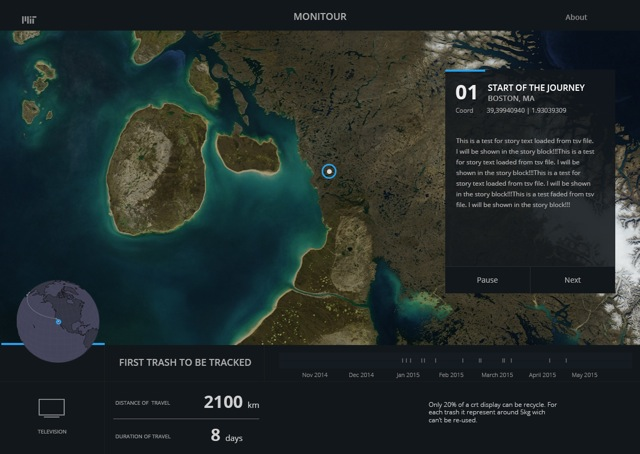
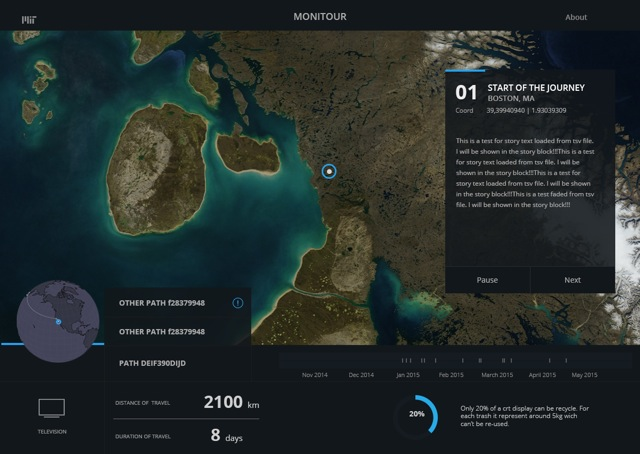
..

Changed region(s): [[0.625, 0.8634, 0.9062, 0.9559], [0.1875, 0.6476, 0.4062, 0.8326], [0.1875, 0.6167, 0.3125, 0.7401]]

diff --git a/public/css/mystyle.css b/public/css/mystyle.css
@@ -25,7 +25,7 @@
 
 html,body {
   font-family: 'Open Sans',sans-serif ;
-  background: black;
+  background: rgb(18,23,22);
   width: 100%;
   height: 100%;
   overflow: hidden;
@@ -65,7 +65,7 @@ a:active {text-decoration: none}
   width:700px;
   position: relative;
   margin: 0 auto;
-  background-color: rgba(20,20,20,0.9);
+  background-color: rgba(18,23,22,0.9);
   padding: 10px;
   top: 50%;
   transform: translateY(-50%);
@@ -105,6 +105,7 @@ a:active {text-decoration: none}
     z-index: 15;
     width: 100%;
     height: 100%;
+    top: 0px;
 
 
 }
@@ -114,12 +115,12 @@ a:active {text-decoration: none}
   color:white;
   width:500px;
   height:600px;
-  position: relative;
-  margin: 0 auto;
-  background-color: rgba(20,20,20,0.9);
+  position: absolute;
+  background-color: rgba(18,23,22,0.9);
   padding: 20px;
   top: 50%;
-  transform: translateY(-50%);
+  left: 50%;
+  transform: translate(-50%,-50%);
 }
 
 #abouttb>div {
@@ -191,7 +192,7 @@ a:active {text-decoration: none}
   position: absolute;
   width: 130px;
   height: 530px;
-  background-color: rgba(30,30,30,0.9);
+  background-color: rgba(18,23,22,0.9);
   color:none;
   left: 300px;
   bottom:252px;
@@ -200,7 +201,7 @@ a:active {text-decoration: none}
 #nowpath_title {
   color:rgb(80,80,80);
   position: absolute;
-  left:270px;
+  left:300px;
   top:27px;
   width: 175px;
   cursor: pointer;
@@ -213,16 +214,16 @@ a:active {text-decoration: none}
 }
 
 #nowpath_title p{
-  font-size: 34px;
-  margin-top: -10px;
+  font-size: 24px;
+  margin-top: -4px;
 }
 
 #device_icon {
   color:rgb(80,80,80);
   position: absolute;
-  left:40px;
+  left:90px;
   width: 175px;
-  top:85px;
+  top:105px;
 }
 
 #device_icon img{
@@ -241,9 +242,9 @@ a:active {text-decoration: none}
 #distance {
   color:rgb(80,80,80);
   position: absolute;
-  left:280px;
+  left:310px;
   width: 270px;
-  top:100px;
+  top:120px;
   border-bottom-style: solid;
   border-bottom-color: rgb(50,50,50);
   border-bottom-width:1px;
@@ -258,9 +259,9 @@ a:active {text-decoration: none}
 #days {
   color:rgb(80,80,80);
   position: absolute;
-  left:280px;
-  top:166px;
-  width: 300px;
+  left:310px;
+  top:186px;
+  width: 270px;
 }
 
 #days p {
@@ -306,7 +307,7 @@ a:active {text-decoration: none}
 #control {
   display: none;
   position:relative;
-  background-color: rgba(20,20,20,0.9);
+  background-color: rgba(18,23,22,0.9);
   width:350px;
   left: calc(100% - 400px);
   top:120px;
@@ -356,7 +357,7 @@ a:active {text-decoration: none}
 }
 
 #preview {
-  background-color: rgba(30,30,30,0.9);
+  background-color: rgba(18,23,22,0.9);
   position: absolute;
   left: 0px;
   width:100%;
@@ -496,7 +497,7 @@ a:active {text-decoration: none}
 }
 #tablepath div {
   height:22px;
-  background-color: rgba(20,20,20,0.9);
+  background-color: rgba(18,23,22,0.9);
   color:#a1a1a1;
 }
 
@@ -562,7 +563,7 @@ p {
 
 #next {
   position: absolute;
-  background-color: rgba(20,20,20,0.8);
+  background-color: rgba(18,23,22,0.8);
   width:50%;
   left: 50%;
   bottom: 0px;
@@ -578,7 +579,7 @@ p {
 
 #stop {
   position: absolute;
-  background-color: rgba(20,20,20,0.8);
+  background-color: rgba(18,23,22,0.8);
   width:50%;
   left: 0%;
   bottom: 0px;
@@ -770,18 +771,6 @@ p {
   cursor: pointer;
 }
 
-.timeid:hover {
-  fill: rgba(206, 18, 18, 0.8);
-  r:3;
-  cursor: pointer;
-}
-
-.mypoints circle:hover {
-  fill: rgba(206, 18, 18, 0.8);
-  r:3;
-  cursor: pointer;
-}
-
 .timemark {
   y:15;
   x:-1.5;
@@ -852,7 +841,7 @@ p {
 .menucontent {
   position:absolute;
   display: none;
-  background-color: rgba(20,20,20,0.9);
+  background-color: rgba(18,23,22,0.9);
   width:200px;
   height:80px;
   top:60px;
@@ -912,7 +901,7 @@ cursor: pointer;
   bottom: -150px;
   //bottom: 0px;
   //z-index: 20;
-  background-color: rgb(20,20,20);
+  background-color: rgb(18,23,22);
   transition: all 0.3s ease-in-out;
   -webkit-transition: all 0.3s ease-in-out;
   -moz-transition: all 0.3s ease-in-out;
@@ -924,9 +913,29 @@ cursor: pointer;
   width:280px;
   height:4.5px;
   background-color: #39a4e8;
-
-
 }
+
+.underbar_line {
+  position: absolute;
+  left: 0px;
+  top: 0px;
+  width:100%;
+  height:100px;
+  background-color: none;
+  border-bottom: 1px rgb(50,50,50) solid;
+}
+
+.underbar_line2 {
+  position: absolute;
+  left: 0px;
+  top: 0px;
+  width:280px;
+  height:100%;
+  background-color: none;
+  border-right: 1px rgb(50,50,50) solid;
+}
+
+
 
 .underbar_back{
   position: absolute;
@@ -968,7 +977,7 @@ cursor: pointer;
     position: absolute;
     width: 100%;
     height: 60px;
-    background-color: rgb(20,20,20);
+    background-color: rgb(18,23,22);
     z-index: 20;
 
 
@@ -987,7 +996,7 @@ cursor: pointer;
   height: 100%;
   left: 0px;
   top: 0px;
-  background-color: rgba(0,0,0,0.5);
+  background-color: rgba(18,23,22,0.5);
   z-index: 1;
 }
 
@@ -1086,4 +1095,8 @@ cursor: pointer;
     padding: 0px !important;
     margin-top: 3px !important;
     margin-bottom: 3px !important;
+  }
+
+  .right {
+    float: right !important;
   }

diff --git a/views/viz.html b/views/viz.html
@@ -26,7 +26,11 @@
     <svg class = "svgpage"></svg>
 
     <div class = "underbar">
+
       <div class="underbar_mark"></div>
+      <div class="underbar_line"></div>
+      <div class="underbar_line2"></div>
+
       <canvas id = "mycanvas" width = "250" height = "250"></canvas>
       <svg id = "globe" width = "250" height = "250"></svg>
       <svg class = "mysvg"></svg>
@@ -45,14 +49,14 @@
 
       <div id = "distance">
         <p>DISTANCE OF TRAVEL: </p>
-        <p class = "keynum">0</p>
-        <p>km</p>
+        <p class = "right">km</p>
+        <p class = "keynum right">0</p>
       </div>
       
       <div id = "days">
         <p>DURATION OF TRAVEL: </p>
-        <p class = "keynum">0</p>
-        <p>days</p>
+        <p class = "right">days</p>
+        <p class = "keynum right">0</p>
       </div>
 
       <div id = "detail_button">

diff --git a/public/js/myfunction_control.js b/public/js/myfunction_control.js
@@ -386,14 +386,11 @@
 
 
 
-      $(".keynum").fadeOut(0, function() {
         d3.select("#distance .keynum")
           .text(nowDis(pastData.coordinates));
         d3.select("#days .keynum")
           .text(nowDays(nowNum));
 
-        $(".keynum").fadeOut(0).fadeIn(0);
-      });
 
 
       $("#Coord p").fadeOut(500, function() {
